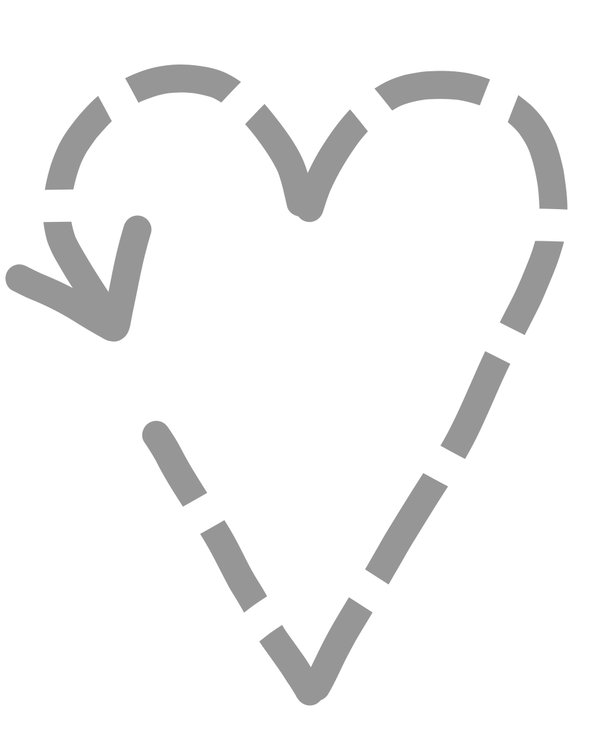
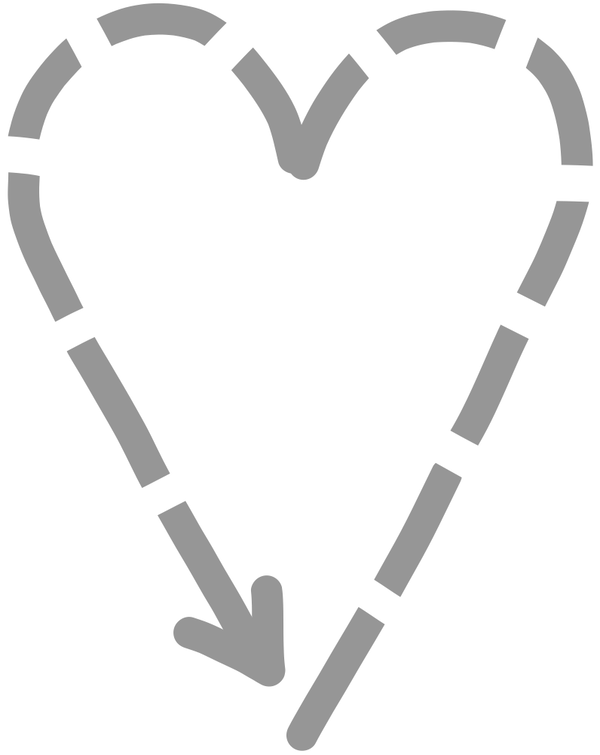
updated UI for send demo 1

Changed region(s): [[0.0, 0.0305, 0.66, 1.0], [0.15, 0.0, 0.84, 0.3046], [0.6, 0.0609, 0.99, 0.7921]]

diff --git a/site/send/sendDemo1.html b/site/send/sendDemo1.html
@@ -22,10 +22,17 @@
       <img src="../assets/like.png" alt="emoji" class="emoji">
     </div>
 
+    <div class="emoji_name">1. Like</div>
+
+    <!-- <button class="top_left btn btn-success" onclick="goToTest()">Ready</button> -->
+
     <h4 class="status">no emoticon detected</h4>
-    <div style="margin-bottom: 8px;">
-      <button class="blue_button" onclick="onClickClearStrokes()">Clear</button>
-      <button class="blue_button" onclick="replaceTraceImg()">Next</button>
+
+    <div style="margin: 1rem 0">
+      <button class="btn btn-success" onclick="goToTest()">Finish</button>
+      <button class="button_margin btn" onclick="onClickClearStrokes()">Clear</button>
+      <button class="btn btn-info" onclick="prevEmoticon()"><< Prev</button>
+      <button class="btn btn-info" onclick="nextEmoticon()">Next >></button>
     </div>
     
 
@@ -47,32 +54,40 @@
     integrity="sha384-ChfqqxuZUCnJSK3+MXmPNIyE6ZbWh2IMqE241rYiqJxyMiZ6OW/JmZQ5stwEULTy"
     crossorigin="anonymous"></script>
   <script>
-    function replaceTraceImg() {
+    var emoticonIndex = 0;
+    var emoticonsInfo = [];
+    var emoticons = ['like', 'laugh', 'sad', 'angry', 'love', 'yay'];
+    for (var i = 0; i < 6; i++) {
+      emoticonsInfo.push({
+        trace: "../assets/trace_" + emoticons[i] + ".png",
+        emoji: "../assets/" + emoticons[i] + ".png"
+      })
+    }
+
+    var traceReplace = document.getElementsByClassName("trace")[0];
+    var emojiReplace = document.getElementsByClassName("emoji")[0];
+    var nameText = document.getElementsByClassName("emoji_name")[0];
+
+    function nextEmoticon() {
       onClickClearStrokes();
-      var traceReplace = document.getElementsByClassName("trace")[0];
-      var emojiReplace = document.getElementsByClassName("emoji")[0];
+      emoticonIndex = (emoticonIndex + 1) % 6;
 
-      if (traceReplace.src.includes("_like")) {
-        traceReplace.src = "../assets/trace_laugh.png";
-        emojiReplace.src = "../assets/laugh.png"
-      } else if (traceReplace.src.includes("_laugh")) {
-        traceReplace.src = "../assets/trace_sad.png";
-        emojiReplace.src = "../assets/sad.png"
-      } else if (traceReplace.src.includes("_sad")) {
-        traceReplace.src = "../assets/trace_angry.png";
-        emojiReplace.src = "../assets/angry.png"
-      } else if (traceReplace.src.includes("_angry")) {
-        traceReplace.src = "../assets/trace_love.png";
-        emojiReplace.src = "../assets/love.png"
-      } else if (traceReplace.src.includes("_love")) {
-        traceReplace.src = "../assets/trace_yay.png";
-        emojiReplace.src = "../assets/yay.png"
-      } else {
-        traceReplace.src = "../assets/trace_like.png";
-        emojiReplace.src = "../assets/like.png"
-      }
+      traceReplace.src = emoticonsInfo[emoticonIndex].trace;
+      emojiReplace.src = emoticonsInfo[emoticonIndex].emoji;
+      nameText.innerHTML = (emoticonIndex + 1) + '. ' + emoticons[emoticonIndex];
+    }
 
-      traceReplace.style.visibility = "visible";
+    function prevEmoticon() {
+      onClickClearStrokes();
+      emoticonIndex = (emoticonIndex + 5) % 6;
+
+      traceReplace.src = emoticonsInfo[emoticonIndex].trace;
+      emojiReplace.src = emoticonsInfo[emoticonIndex].emoji;
+      nameText.innerHTML = (emoticonIndex + 1) + '. ' + emoticons[emoticonIndex];
+    }
+
+    function goToTest() {
+      window.alert("By clicking OK, you confirm that you have learned this method of sending emoticons and are ready to use them in a study trial.")
     }
   </script>
 </body>

diff --git a/site/style.css b/site/style.css
@@ -3,18 +3,33 @@ body {
   font-family: 'Avenir Next';
 }
 
-.blue_button {
-  margin: 0 20px;
-}
 
 .card {
   margin: 0 auto;
   width: 80%;
 }
 
-.outer {
-  text-align: center;
-  padding: 1.5rem 1rem 1rem;
+.ellipse {
+  margin: 0 auto;
+  height: 18vh;
+  width: 18vh;
+  background-color: #45597e;
+  border-radius: 50%;
+  margin-bottom: 2vh;
+}
+
+.emoji {
+  height: 13vh;
+  margin-top: 2.5vh;
+}
+
+.emoji_name {
+  position: absolute;
+  top: 1.5rem;
+  left: 1.5rem;
+  font-size: 20px;
+  font-weight: 500;
+  color: #3A4D8D;
 }
 
 .heading {
@@ -32,23 +47,9 @@ body {
   margin: 2rem 0;
 }
 
-.emoji {
-  height: 15vh;
-  margin-top: 2.5vh;
-}
-
-.trace {
-  position: absolute;
-  z-index: -1;
+.outer {
   text-align: center;
-  top: 45vh;
-  left: 50%;
-  margin-left: -100px;
-  width: 200px;
-}
-
-canvas {
-  border: 5px solid #a5bde6;
+  padding: 1.5rem 1rem 1rem;
 }
 
 .test {
@@ -57,15 +58,30 @@ canvas {
   margin: 0.25rem;
 }
 
-html, body {
-  height: 85%;
+.status {
+  margin: 1.25rem 0;
 }
 
-.ellipse {
-    margin: 0 auto;
-    height: 20vh;
-    width: 20vh;
-    background-color: #45597e;
-    border-radius: 50%;
-    margin-bottom: 5vh;
+.top_left {
+  position: absolute;
+  top: 1.5rem;
+  right: 1.5rem;
+}
+
+.trace {
+  position: absolute;
+  z-index: -1;
+  text-align: center;
+  top: 48vh;
+  left: 50%;
+  margin-left: -95px;
+  width: 190px;
+}
+
+canvas {
+  border: 5px solid #a5bde6;
+}
+
+html, body {
+  height: 85%;
 }
